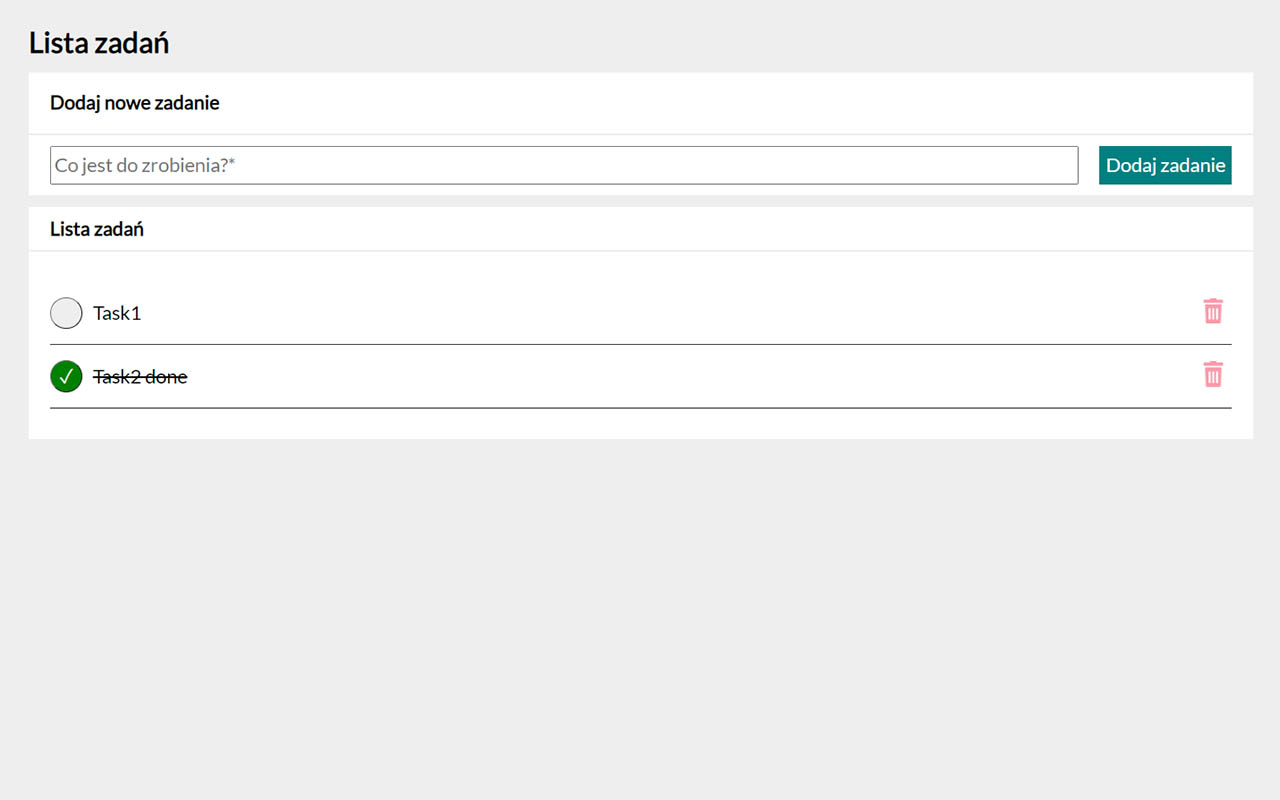
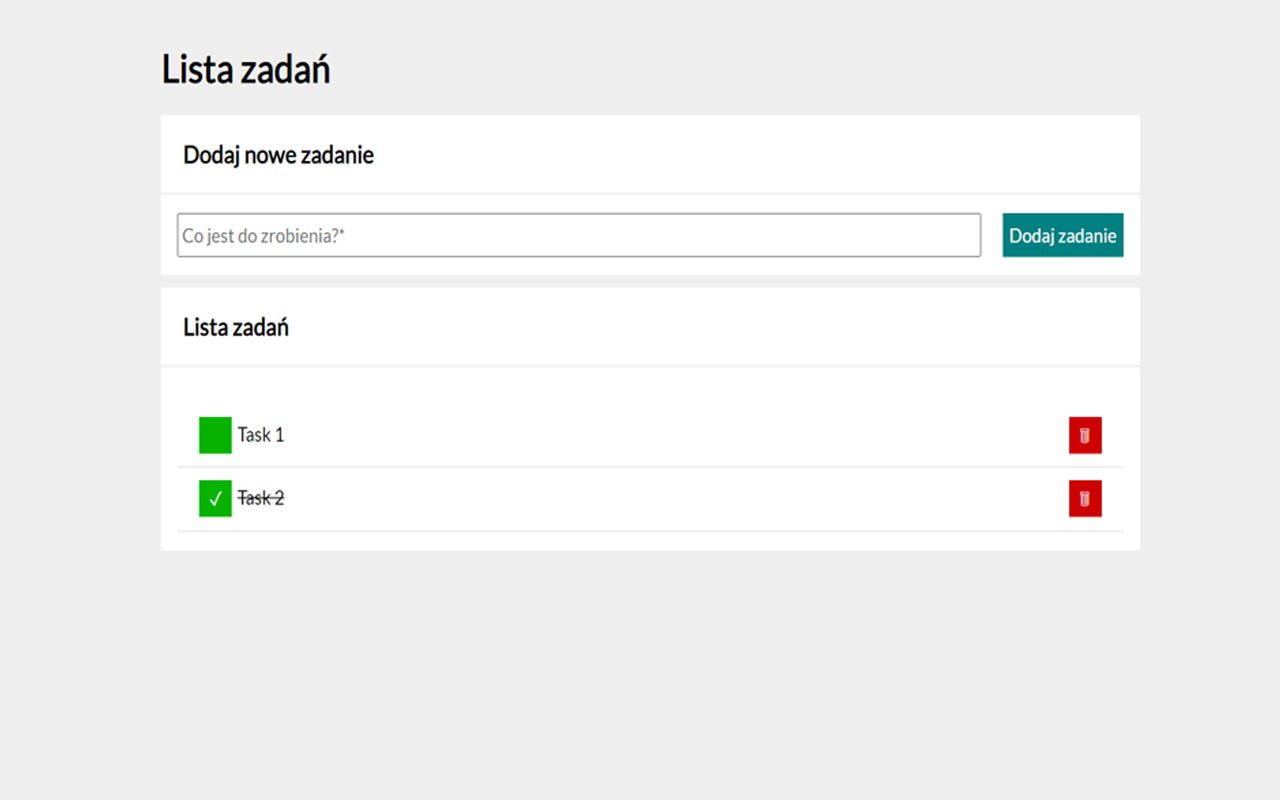
add buttons hideTask, endTask add change intro.jpg

diff --git a/index.html b/index.html
@@ -18,6 +18,7 @@
     <link href="css/main.css" rel="stylesheet">
     <link href="css/form.css" rel="stylesheet">
     <link href="css/list.css" rel="stylesheet">
+    <link href="css/section.css" rel="stylesheet">
     <link href="./img/icon.png" rel="icon">
 </head>
 
@@ -38,7 +39,11 @@
             </form>
         </section>
         <section class="section">
-            <h2 class="section__header">Lista zadań</h2>
+            <div class="section__header section__header--withButtons">
+                <h2 class="section__header--titles">Lista zadań</h2>
+                <button class="header__button">Ukryj ukończone</button> <!-- Muszi być w js -->
+                <button class="header__button">Ukończ wszystkie</button> <!-- Muszi być w js -->
+            </div>
             <ul class="section__body js-tasks">
             </ul>
         </section>

diff --git a/css/section.css b/css/section.css
@@ -1,0 +1,51 @@
+.section {
+    background-color: white;
+    margin: 10px 0;
+    box-shadow: 0.5px 0.5px 1px #ccc;
+}
+
+.section__header {
+    padding: 20px;
+    margin: 0px;
+    border-bottom: 2px solid #eee;
+}
+
+.section__body {
+    padding: 20px;
+}
+
+.section__header--titles {
+    margin: 0px;
+    flex-grow: 1;
+}
+
+.section__header--withButtons {
+    display: flex;
+}
+
+.header__button {
+    justify-self: flex-end;
+    color: teal;
+    background-color: white;
+    border-style: none;
+    font-size: 18px;
+    margin: 0px 10px;
+}
+
+.header__button:hover{
+    color:rgb(0, 169, 169)
+}
+
+.header__button:active{
+    color:rgb(0, 189, 189)
+}
+
+@media (max-width:700px) {
+    .section__header--withButtons {
+        flex-direction: column;
+    }
+
+    .header__button {
+        margin-top: 20px;
+    }
+}

diff --git a/js/script.js b/js/script.js
@@ -3,7 +3,7 @@
     ];
 
     const addNewTask = (newTaskContent) => {
-        tasks.push({
+        tasks.push({ //remove
             content: newTaskContent,
         })
 
@@ -11,8 +11,8 @@
     };
 
     const removeTask = (index) => {
-        tasks.splice(index, 1);
-        render();
+        tasks.splice(index, 1); //Remove
+        render(); 
     }
 
     const toggleTaskCheck = (taskIndex) => {

diff --git a/css/main.css b/css/main.css
@@ -1,21 +1,5 @@
 .main {
     max-width: 900px;
-    padding: 15px;
+    padding: 10px;
     margin: auto;
-}
-
-.section {
-    background-color: white;
-    margin: 10px 0;
-
-}
-
-.section__header {
-    font-size: 20px;
-    padding: 20px;
-    margin: 0px;
-    border-bottom: 2px solid #eee;
-}
-.section__body {
-    padding: 15px;
 }

diff --git a/css/form.css b/css/form.css
@@ -23,7 +23,7 @@
     flex-grow: 1;
 }
 
-@media (max-width: 768px) {
+@media (max-width: 700px) {
     .form {
         flex-direction: column;
     }
